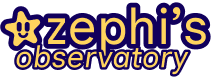
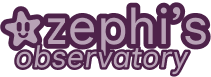
woodzone

diff --git a/style.css b/style.css
@@ -1,7 +1,7 @@
 body {
-  color: #11005C;
-  background-color: #E1E6FF;
-  background-image: url('assets/images/emeralds.png');
+  color: #FFFFFF;
+  background-color: #002524;
+  background-image: url('assets/images/woodZoneBG.png');
   /*font-family: "Catrinity", sans-serif;*/
   font-family: "Inclusive Sans", sans-serif;
 }
@@ -11,34 +11,34 @@ body {
 }*/
 
 nav {
-  border:ridge #566094;
-  background-color:#566094;
+  border:ridge #222222;
+  background-color:#4E224A;
   text-align: center;
   margin: auto;
   padding:0.5em;
 }
 
 hr {
-  border:ridge #566094;
+  border:ridge #000000;
 }
 
 .navbutton {
-  border: outset #FFD45E;
-  background-color:#FFD45E;
+  border: outset #006E45;
+  background-color:#006E45;
   text-align: center;
   padding: 0.125em;
 }
 
 .navbuttoncurrent {
-  border: inset #DEC994;
-  background-color: #DEC994;
+  border: inset #004920;
+  background-color: #004920;
   text-align: center;
   padding: 0.125em;
 }
 
 .navbutton:hover {
-  border: inset #DEC994;
-  background-color: #DEC994;
+  border: inset #004920;
+  background-color: #004920;
 }
 
 .osabutton {
@@ -104,6 +104,23 @@ hr {
 summary {cursor:pointer;}
 
 link styling
+a{color: lightskyblue;}
+a:link{color: lightskyblue;}
+a:visited{color: lightskyblue;}
+a:hover{font-weight: bold;}
+a:active{font-weight: bold;}
+
+a:link.navbutton{color: white;}
+a:visited.navbutton{color: white;}
+a:link.navbuttoncurrent{color: white;}
+a:visited.navbuttoncurrent{color: white;}
+a:link.osabutton{color: white;}
+a:visited.osabutton{color: white;}
+
+a:link.about_leftside_text{color: lightskyblue; font-weight: bold;}
+a:visited.about_leftside_text{color: lightskyblue; font-weight: bold;}
+
+/*
 a:link{color: lightskyblue;}
 a:visited{color: #7477f7;}
 a:hover{font-weight: bold;}
@@ -118,3 +135,4 @@ a:visited.osabutton{color: white;}
 
 a:link.about_leftside_text{color: #5c93c5; font-weight: bold;}
 a:visited.about_leftside_text{color: #7477f7; font-weight: bold;}
+*/

diff --git a/index.html b/index.html
@@ -16,10 +16,11 @@
     <link rel="shortcut icon" type="image/png" href="assets/images/favicon.png"/>
   </head>
   <p align="center"><a><img src="assets/images/title.png"/></a></p>
+    <p align="center">I've updated the site to use a new theme. Please contact me on Discord if there are any readability issues.</p>
   <nav>
     <a class="navbuttoncurrent">about me</a>
     |
-    <a href="transcendence.html" class="navbutton">robotkin stuff</a>
+    <a href="transcendence.html" class="navbutton">robot stuff</a>
   </nav>
   <body>
     <h1 align="center">hi, i'm zephi. or any of my other names.</h1>

diff --git a/sekrit.html b/sekrit.html
@@ -19,7 +19,7 @@
   <nav>
     <a href="index.html" class="navbutton">about me</a>
     |
-    <a href="transcendence.html" class="navbutton">robotkin stuff</a>
+    <a href="transcendence.html" class="navbutton">robot stuff</a>
   </nav>
   <body>
     <h1 align="center">what are those numbers you used sometimes?</h1>

diff --git a/glossary.html b/glossary.html
@@ -19,7 +19,7 @@
   <nav>
     <a href="index.html"  class="navbutton">about me</a>
     |
-    <a class="navbuttoncurrent">robotkin stuff</a>
+    <a class="navbuttoncurrent">robot stuff</a>
   </nav>
   <nav>
     <a href="transcendence.html" class="navbutton">transcendence - robotkin information</a>

diff --git a/screenHeads.html b/screenHeads.html
@@ -19,7 +19,7 @@
   <nav>
     <a href="index.html"  class="navbutton">about me</a>
     |
-    <a class="navbuttoncurrent">robotkin stuff</a>
+    <a class="navbuttoncurrent">robot stuff</a>
   </nav>
   <nav>
     <a href="transcendence.html" class="navbutton">transcendence - robotkin information</a>

diff --git a/transcendence.html b/transcendence.html
@@ -19,7 +19,7 @@
   <nav>
     <a href="index.html"  class="navbutton">about me</a>
     |
-    <a class="navbuttoncurrent">robotkin stuff</a>
+    <a class="navbuttoncurrent">robot stuff</a>
   </nav>
   <nav>
     <a class="navbuttoncurrent">transcendence - robotkin information</a>
